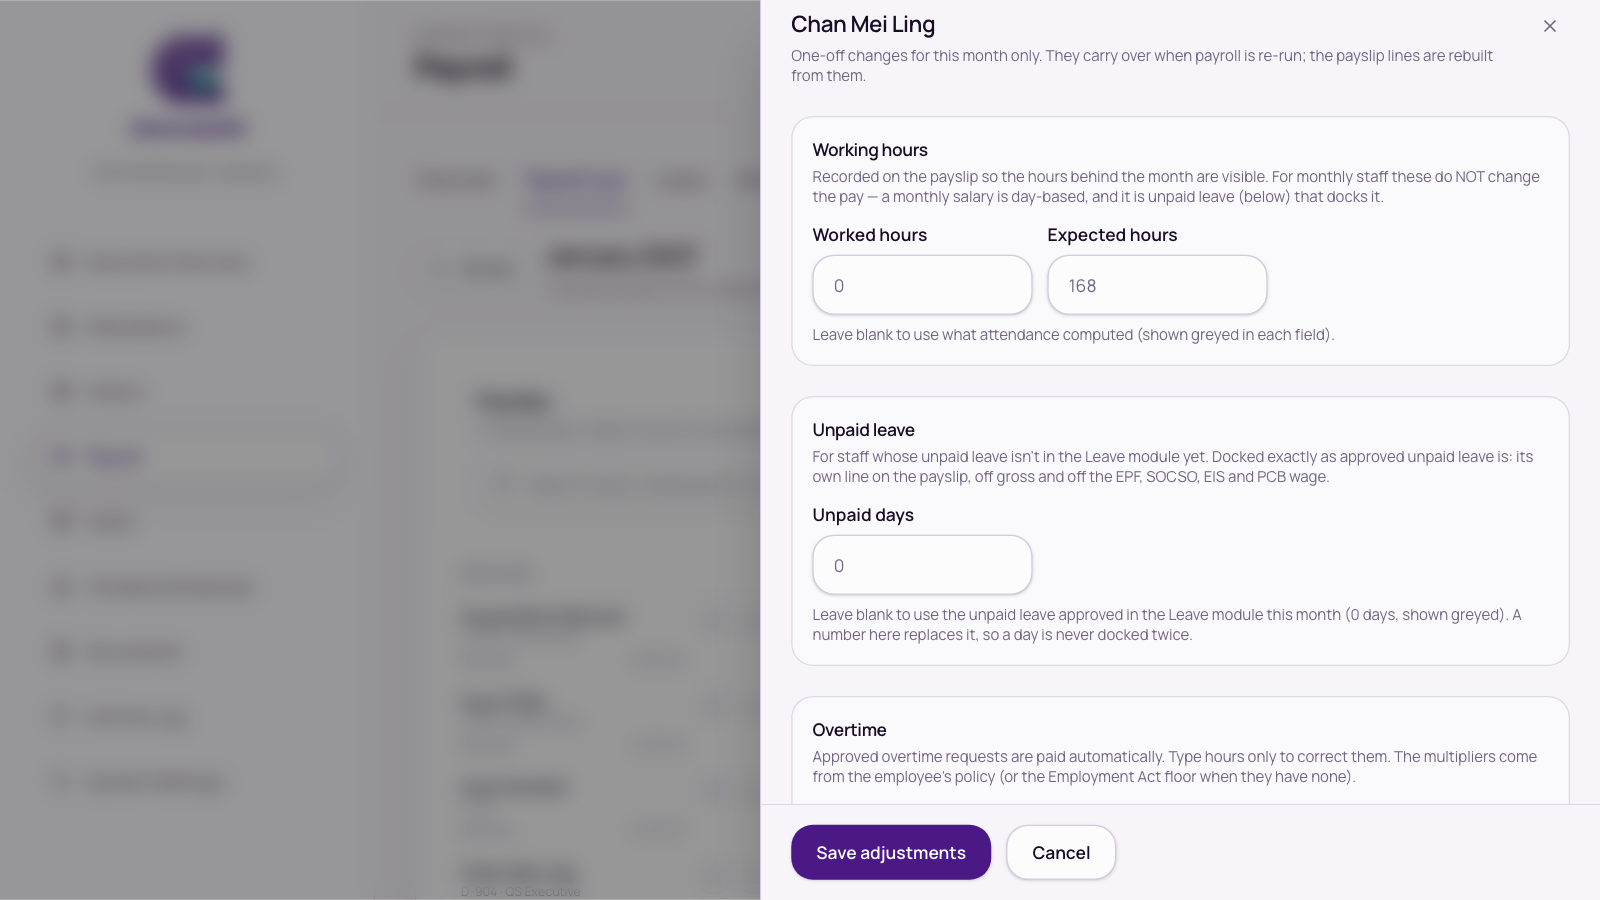
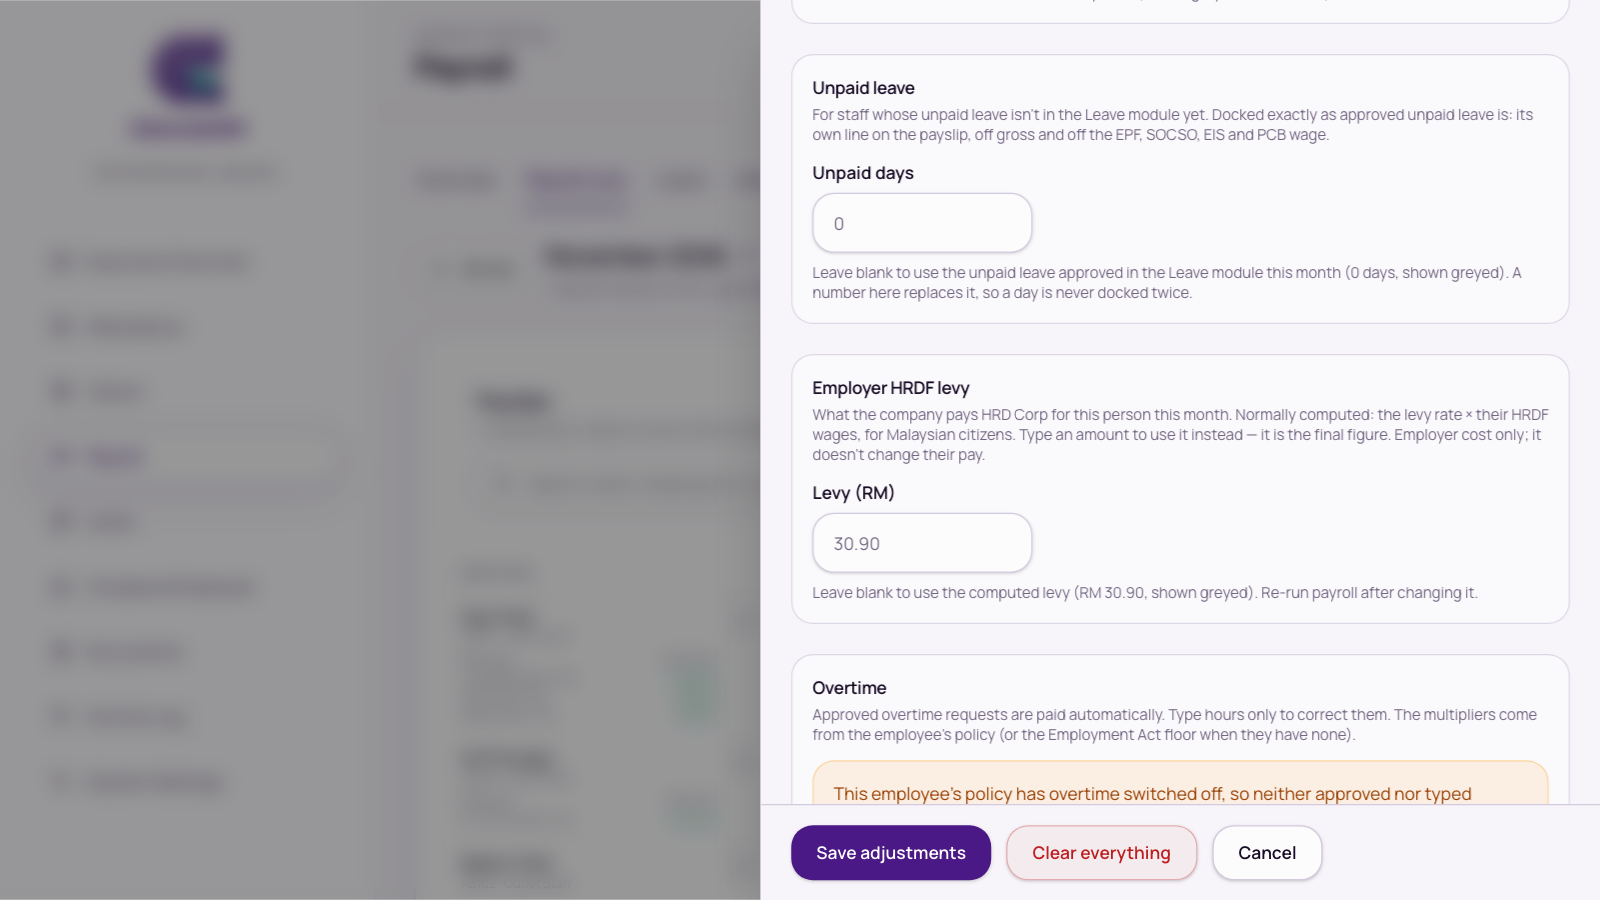
docs: what's new, API docs and admin guide for the employer HRDF levy

diff --git a/api-docs/payroll-runs.html b/api-docs/payroll-runs.html
@@ -381,8 +381,8 @@ curl -X PATCH https://&lt;api-host&gt;/payroll/runs/run_123 \
             <tr><td><code>totalEmployeeEis</code> / <code>totalEmployerEis</code></td><td>number</td><td></td></tr>
             <tr><td><code>totalEmployeeSkbbk</code></td><td>number</td><td></td></tr>
             <tr><td><code>totalPcb</code> / <code>totalCp38</code> / <code>totalZakat</code></td><td>number</td><td></td></tr>
-            <tr><td><code>totalHrdf</code></td><td>number</td><td></td></tr>
-            <tr><td><code>employeesSubjectToHrdf</code></td><td>number</td><td></td></tr>
+            <tr><td><code>totalHrdf</code></td><td>number</td><td>Employer HRDF levy for the run. Includes any amount entered as <code>hrdfLevy</code> on an <a href="#save-adjustment">adjustment</a> in place of the computed levy.</td></tr>
+            <tr><td><code>employeesSubjectToHrdf</code></td><td>number</td><td>Payslips with an HRDF wage above 0. An entered <code>hrdfLevy</code> changes the amount, not this count.</td></tr>
             <tr><td><code>totalWagesSubjectToHrdf</code></td><td>number</td><td></td></tr>
             <tr><td><code>totalCostToEmployer</code></td><td>number</td><td>Sum of the payslips' <code>totalCostToEmployer</code> — see the payslip row below for what that excludes.</td></tr>
             <tr><td><code>generatedAt</code></td><td>string or null</td><td>ISO 8601. Null until <a href="#generate">generate</a> has run.</td></tr>
@@ -788,7 +788,7 @@ curl -X PATCH https://&lt;api-host&gt;/payroll/runs/run_123 \
           an employee the file says nothing about has their existing manual lines <em>deleted</em>, which
           is why the template arrives pre-filled. The salary columns are the opposite — blank means
           "leave this salary alone". The import never touches an employee's typed <code>unpaidLeaveDays</code> (or
-          their overtime hours and notes): it carries the saved values through.
+          their <code>hrdfLevy</code>, overtime hours and notes): it carries the saved values through.
         </div>
         <p>
           Rows are matched against the employees who can be on this run, by the same rule as
@@ -875,6 +875,7 @@ curl -X PATCH https://&lt;api-host&gt;/payroll/runs/run_123 \
               <tr><td><code>unpaidDayBasis</code></td><td>integer</td><td>Days in the month for pricing and the upper bound for <code>unpaidLeaveDays</code>: <code>26</code> when the company's Payroll Settings count 26 working days, otherwise the month's calendar days (28–31).</td></tr>
               <tr><td><code>unpaidDayBasisLabel</code></td><td>string</td><td><code>"working days"</code> or <code>"calendar days"</code> — what <code>unpaidDayBasis</code> counts.</td></tr>
               <tr><td><code>attendanceApplies</code></td><td>boolean</td><td></td></tr>
+              <tr><td><code>computedHrdfLevy</code></td><td>number or null</td><td>MYR. The employer HRDF levy the formula gives this person (HRDF wage &times; the company's HRDF rate, rounded to 2 decimals), read from the run's last payroll, without any <code>hrdfLevy</code> typed on the adjustment. <code>0</code> when HRDF is off in Payroll Settings. <strong>Null</strong> until payroll has been run for the run, while the run needs re-running (<code>isStale</code>), or when this employee has no payslip on it. It is a hint for what to type against, not a saved value. A non-citizen's HRDF wage is 0, so their computed levy is 0.</td></tr>
               <tr><td><code>cashOvertime</code></td><td>boolean</td><td>False when the employee's policy banks overtime as time off, or disables it — typed OT hours are then ignored at generation.</td></tr>
               <tr><td><code>overtimeDisabledReason</code></td><td>string or null</td><td>Explains a false <code>cashOvertime</code>.</td></tr>
               <tr><td><code>approvedOtNormalHours</code> / <code>approvedOtRestHours</code> / <code>approvedOtPublicHours</code></td><td>number</td><td>What generation pays by default, before any typed override.</td></tr>
@@ -913,6 +914,7 @@ curl -X PATCH https://&lt;api-host&gt;/payroll/runs/run_123 \
               <tr><td><code>fixedAllowanceOverrides</code></td><td>object</td><td>no</td><td>Keyed by the profile fixed-allowance's array index as a string, e.g. <code>{ "0": { "amount": 500, "skip": false } }</code>. <code>amount: null</code> keeps the profile's figure; <code>skip: true</code> zeroes that row out for this run only.</td></tr>
               <tr><td><code>workedHours</code> / <code>expectedHours</code></td><td>number or null</td><td>no</td><td>0–9999.99. Overrides what attendance derived.</td></tr>
               <tr><td><code>unpaidLeaveDays</code></td><td>number or null</td><td>no (default null)</td><td>Unpaid days to dock for this run, fractions allowed (e.g. <code>1.5</code>). <code>null</code> = use approved unpaid leave from the Leave module. <strong>A number replaces it</strong> — it is not added to it, so days already applied for in Leave are not docked twice; <code>0</code> means "dock nothing, even if Leave has approved days". Must be between 0 and the month's <code>unpaidDayBasis</code> (see the context endpoint). MONTHLY staff only.</td></tr>
+              <tr><td><code>hrdfLevy</code></td><td>number or null</td><td>no (default null)</td><td>Employer HRDF levy for this person in this run, MYR, 0–99999.99, rounded to 2 decimals. <code>null</code> = computed: the company's HRDF rate &times; the person's HRDF wage, for citizens only. <strong>An amount replaces the computed levy</strong>, and <code>0</code> is an amount (it means "no levy this month"). The replacement is the payslip's <code>hrdf</code>, so it flows into the run's <code>totalHrdf</code> and the cost to employer. It does not depend on the rate or on citizenship. The HRDF wage (<code>hrdfWage</code>) is not changed and stays the statutory figure; net pay is not affected, because the levy is paid by the employer.</td></tr>
               <tr><td><code>notes</code></td><td>string or null</td><td>no</td><td>Max 2000 chars.</td></tr>
             </tbody>
           </table>
@@ -921,6 +923,12 @@ curl -X PATCH https://&lt;api-host&gt;/payroll/runs/run_123 \
           <strong><code>unpaidLeaveDays</code> follows the full-replace rule too.</strong> A PUT that leaves it
           out saves <code>null</code>, which silently clears days you typed earlier and falls back to the Leave
           module. Read the saved row first and send <code>unpaidLeaveDays</code> back with everything else.
+        </div>
+        <div class="callout warn">
+          <strong><code>hrdfLevy</code> follows the full-replace rule as well.</strong> A PUT that omits it (or
+          sends <code>null</code>) clears an amount saved earlier, and the levy goes back to being computed.
+          Send the saved <code>hrdfLevy</code> back with everything else. A <code>hrdfLevy</code> above 99999.99 or
+          below 0 is a <code>400</code>.
         </div>
         <p>
           When the run is generated, typed days are priced exactly like approved unpaid leave: monthly salary ÷
@@ -934,7 +942,7 @@ curl -X PATCH https://&lt;api-host&gt;/payroll/runs/run_123 \
         <h3>Errors</h3>
         <ul>
           <li><code>400</code> <code>{ "error": "Unknown adjustment category 'xyz'." }</code></li>
-          <li><code>400</code> <code>{ "errors": { "UnpaidLeaveDays": ["…"] } }</code> — a field failed validation, e.g. <code>unpaidLeaveDays</code> below 0 or above 31 (or any other range above).</li>
+          <li><code>400</code> <code>{ "errors": { "UnpaidLeaveDays": ["…"] } }</code> — a field failed validation, e.g. <code>unpaidLeaveDays</code> below 0 or above 31, or <code>hrdfLevy</code> above 99999.99 (or any other range above).</li>
           <li><code>404</code> — no such run.</li>
           <li><code>409</code> <code>{ "error": "This run is no longer a draft — revert it before editing adjustments." }</code></li>
           <li><code>409</code> <code>{ "error": "Unpaid days must be between 0 and 26 — the month's 26 working days." }</code> — <code>unpaidLeaveDays</code> is more than the month's <code>unpaidDayBasis</code> (the number and the words <code>calendar</code> / <code>working</code> vary with the company's setting and the month). Note this one is a <strong>409</strong>, not a 400.</li>
@@ -950,7 +958,8 @@ curl -X PATCH https://&lt;api-host&gt;/payroll/runs/run_123 \
       { "category": "allowance_travel", "label": "February site travel", "amount": 250.00, "treatAsRecurring": false }
     ],
     "fixedAllowanceOverrides": {},
-    "unpaidLeaveDays": 1.5
+    "unpaidLeaveDays": 1.5,
+    "hrdfLevy": 45.00
   }'</code></pre>
       </section>
 
@@ -984,6 +993,7 @@ curl -X PATCH https://&lt;api-host&gt;/payroll/runs/run_123 \
             <tr><td><code>fixedAllowanceOverrides</code></td><td>object</td><td>Same shape as the request.</td></tr>
             <tr><td><code>workedHours</code> / <code>expectedHours</code></td><td>number or null</td><td></td></tr>
             <tr><td><code>unpaidLeaveDays</code></td><td>number or null</td><td>Typed unpaid days. Null = the Leave module's approved unpaid leave is used; a number (including <code>0</code>) replaces it.</td></tr>
+            <tr><td><code>hrdfLevy</code></td><td>number or null</td><td>The entered employer HRDF levy. Null = the levy is computed; a number (including <code>0</code>) replaces it.</td></tr>
             <tr><td><code>notes</code></td><td>string or null</td><td></td></tr>
             <tr><td><code>createdAt</code> / <code>updatedAt</code></td><td>string</td><td>ISO 8601.</td></tr>
           </tbody>
@@ -1301,6 +1311,7 @@ curl -X PATCH https://&lt;api-host&gt;/payroll/runs/run_123 \
           <li><code>format</code> omitted or <code>pdf</code>: <code>Content-Type: application/pdf</code>, filename <code>Payroll_Summary_{Month}_{Year}.pdf</code> (e.g. <code>Payroll_Summary_January_2026.pdf</code>). While the run is not yet approved: <code>Payroll_Summary_{Month}_{Year}_DRAFT.pdf</code> (<code>DRAFT</code>) or <code>Payroll_Summary_{Month}_{Year}_FOR_APPROVAL.pdf</code> (<code>PENDING_APPROVAL</code>).</li>
           <li><code>format=xlsx</code>: an Excel workbook, filename <code>Payroll_Summary_{Month}_{Year}.xlsx</code> (with the same <code>_DRAFT</code> / <code>_FOR_APPROVAL</code> suffix before an approval), with three sheets: <code>Summary</code> (one row per employee), <code>Totals</code> and <a href="#doc-summary-breakdown"><code>Breakdown</code></a> (one row per employee, one column per pay item). It is loaded and gated exactly as the PDF is, so the two always carry the same figures. (The <code>DRAFT</code> / <code>FOR APPROVAL</code> watermark and banner are PDF-only; the Excel copy shows the run's status in its header block and carries the file-name suffix.)</li>
         </ul>
+        <p>The summary's &ldquo;Employees subject to HRDF&rdquo; total counts payslips with an HRDF wage above 0 (it used to count an HRDF amount above 0). An <code>hrdfLevy</code> entered on an <a href="#save-adjustment">adjustment</a> changes the HRDF amount shown, not who is counted, so an entered <code>0</code> still counts the employee.</p>
         <h3 id="doc-summary-breakdown">The <code>Breakdown</code> sheet (xlsx)</h3>
         <p>
           The third sheet lays each employee's pay out wide: <strong>one row per employee, one column per pay item</strong>.

diff --git a/user-guide/altomatehr-admin-guide.html b/user-guide/altomatehr-admin-guide.html
@@ -7,7 +7,7 @@
   Bookmark: this page is correct as of this commit on main. The next update
   re-checks every user-visible change after it — from any branch — then
   moves it forward.
-  user-guide-covered-up-to: eb1d7bc
+  user-guide-covered-up-to: b07ef3e
 -->
 <html lang="en">
 <head>
@@ -1297,7 +1297,7 @@
           approved overtime, leave and claims.</p></li>
       <li><h4>Check and adjust</h4>
         <p>Open anyone's line with <span class="btn-name">Edit OT / adjustments</span> to change worked hours, overtime,
-          or add a one-off allowance, deduction or expense for this month. <strong>Reimbursed claims</strong> lists
+          or add a one-off allowance, deduction or expense for this month, or to set one person's employer HRDF levy. <strong>Reimbursed claims</strong> lists
           approved claims waiting to be paid — add them to this run. Unpaid leave is deducted automatically from approved
           unpaid leave; for staff whose unpaid leave isn't in the Leave module yet, type it in — see
           <em>Unpaid days not in the Leave module</em> below. The <strong>Needs attention</strong> tab lists anyone
@@ -1326,6 +1326,23 @@
           off the wage used for EPF, SOCSO, EIS and PCB. In <strong>One-off adjustments</strong> the person's row then
           shows a tag such as <em>2 unpaid days</em>. Press <span class="btn-name">Save adjustments</span>, then
           <span class="btn-name">Re-run payroll</span> to apply it.</p></li>
+      <li><h4>Employer HRDF levy for one person</h4>
+        <p>The HRDF levy is what the company pays HRD Corp for each person, worked out for you as the levy rate in your
+          payroll settings times their HRDF wages, for Malaysian citizens. To set a different figure for one person on this
+          run, open their <span class="btn-name">Adjust</span> panel (or <span class="btn-name">Edit</span>).
+          Between <strong>Unpaid leave</strong> and <strong>Overtime</strong> there's an
+          <strong>Employer HRDF levy</strong> box with one field, <strong>Levy (RM)</strong>.</p>
+        <ul>
+          <li>Leave it <strong>blank</strong> to use the computed levy. The figure shows greyed in the field while the run
+            is up to date; if you've just changed something, it appears after you press
+            <span class="btn-name">Re-run payroll</span>.</li>
+          <li>Type an amount to use it instead. It is the <strong>final</strong> figure, not an extra on top, and
+            <strong>0</strong> counts: type 0 to charge no levy for that person.</li>
+          <li>It is an employer cost only. The person's pay, payslip and deductions don't change.</li>
+        </ul>
+        <p>In <strong>One-off adjustments</strong> the person's row then shows a tag such as <em>HRDF levy RM 25.00</em>.
+          Press <span class="btn-name">Save adjustments</span>, then <span class="btn-name">Re-run payroll</span> so the
+          run's HRDF totals use it.</p></li>
       <li><h4>Pay figures are final (ABPay runs only)</h4>
         <p>On a draft you'll see a tick box, <strong>Pay figures are final — don't prorate joiners and leavers</strong>.
           Tick it for a run imported from ABPay, where the timesheet already pays part-month staff for the days they
@@ -1447,7 +1464,7 @@
           <p class="shot-cap">Payroll runs</p>
         </div>
         <div class="shot-item">
-          <img src="shots/admin/payroll-adjustments.png" alt="The adjustments drawer for one monthly employee: Working hours, the Unpaid leave box with its Unpaid days field, and the start of Overtime" loading="lazy">
+          <img src="shots/admin/payroll-adjustments.png" alt="The adjustments drawer for one monthly employee: the Unpaid leave box, the Employer HRDF levy box with the computed RM 30.90 shown greyed, and the start of Overtime" loading="lazy">
           <p class="shot-cap">Adjustments drawer</p>
         </div>
         <div class="shot-item">

diff --git a/frontend/src/features/whats-new/lib/entries.ts b/frontend/src/features/whats-new/lib/entries.ts
@@ -8,7 +8,7 @@
 //
 // Bookmark: the last commit on main these notes already cover. The next update
 // writes up everything after it — from any branch — then moves it forward.
-// whats-new-covered-up-to: eb1d7bc
+// whats-new-covered-up-to: b07ef3e
 
 export type WhatsNewEntry = {
   /** Release day, yyyy-MM-dd (Malaysia time). Also what "unread" compares. */
@@ -21,6 +21,14 @@ export type WhatsNewEntry = {
 };
 
 export const WHATS_NEW: WhatsNewEntry[] = [
+  {
+    date: "2026-10-23",
+    new: [
+      "Admins: each person's adjustments on a payroll run now have an Employer HRDF levy box. Blank keeps the computed levy, shown greyed; any amount, 0 included, replaces it.",
+      "The levy is an employer cost only, so the employee's pay doesn't change. The run's adjustments list shows it as \"HRDF levy RM x\".",
+      "Re-run payroll after changing it. Only the months where you type a levy are affected.",
+    ],
+  },
   {
     date: "2026-10-22",
     new: [

diff --git a/api-docs/index.html b/api-docs/index.html
@@ -25,7 +25,7 @@
   Bookmark: the pages that exist are correct as of this commit on main. The
   next update re-checks every controller/DTO changed after it — from any
   branch — then moves it forward.
-  api-docs-covered-up-to: eb1d7bc
+  api-docs-covered-up-to: b07ef3e
 -->
 <div class="layout">
   <nav class="sidebar" aria-label="Documentation">

diff --git a/user-guide/altomatehr-employee-guide.html b/user-guide/altomatehr-employee-guide.html
@@ -7,7 +7,7 @@
   Bookmark: this page is correct as of this commit on main. The next update
   re-checks every user-visible change after it — from any branch — then
   moves it forward.
-  user-guide-covered-up-to: eb1d7bc
+  user-guide-covered-up-to: b07ef3e
 -->
 <html lang="en">
 <head>
